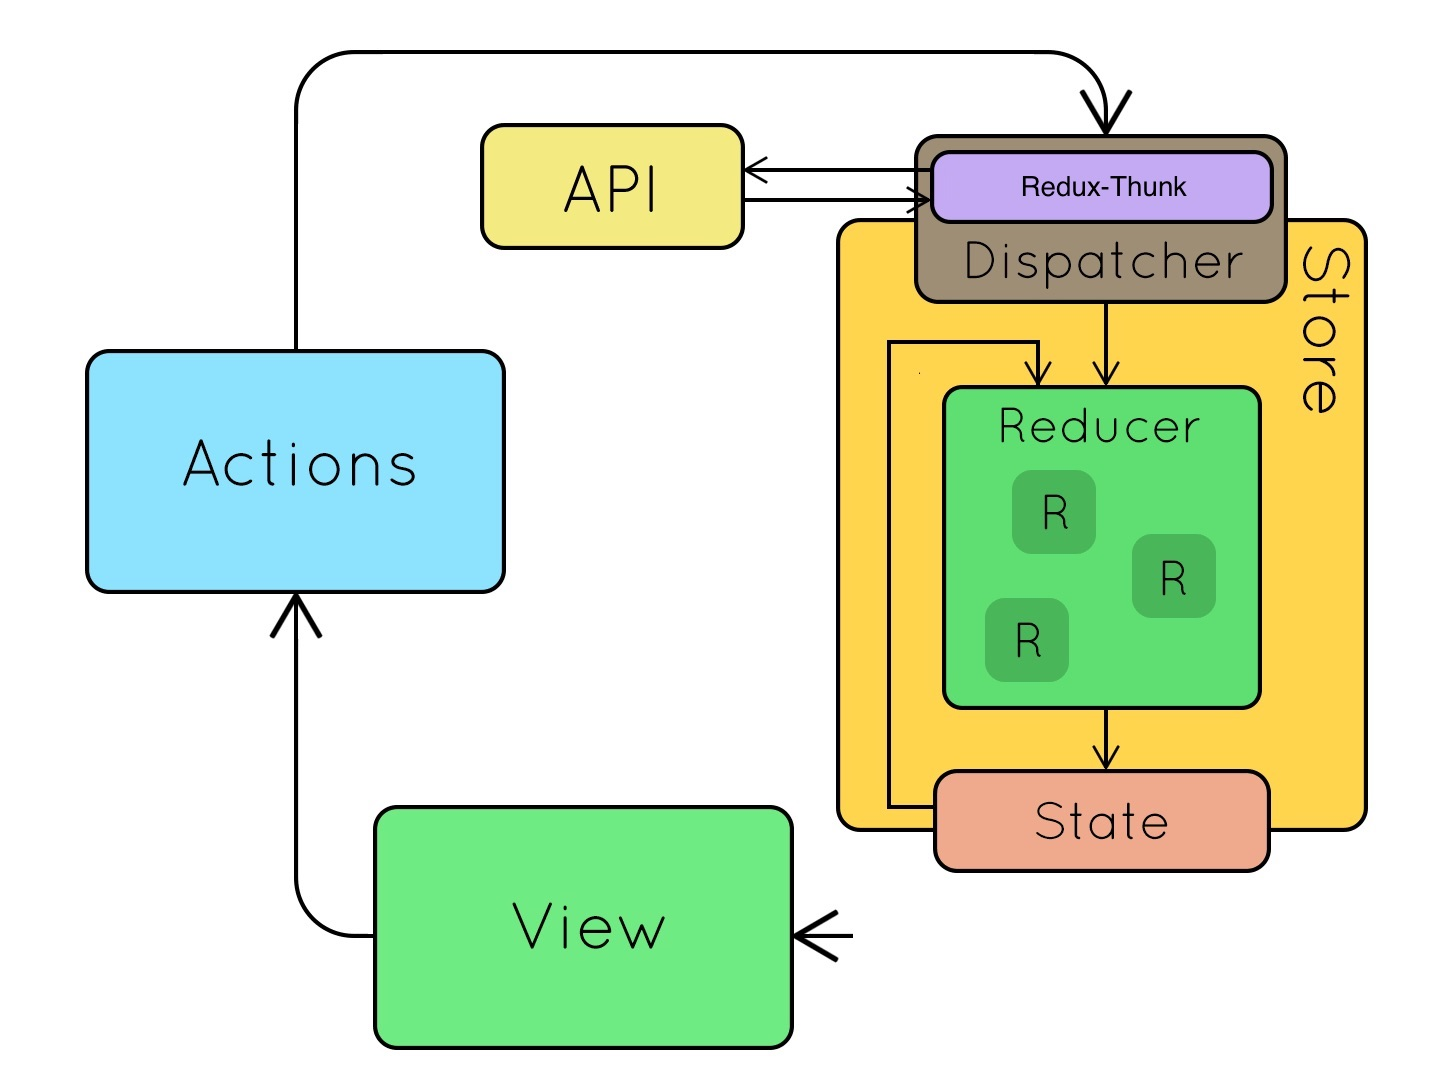
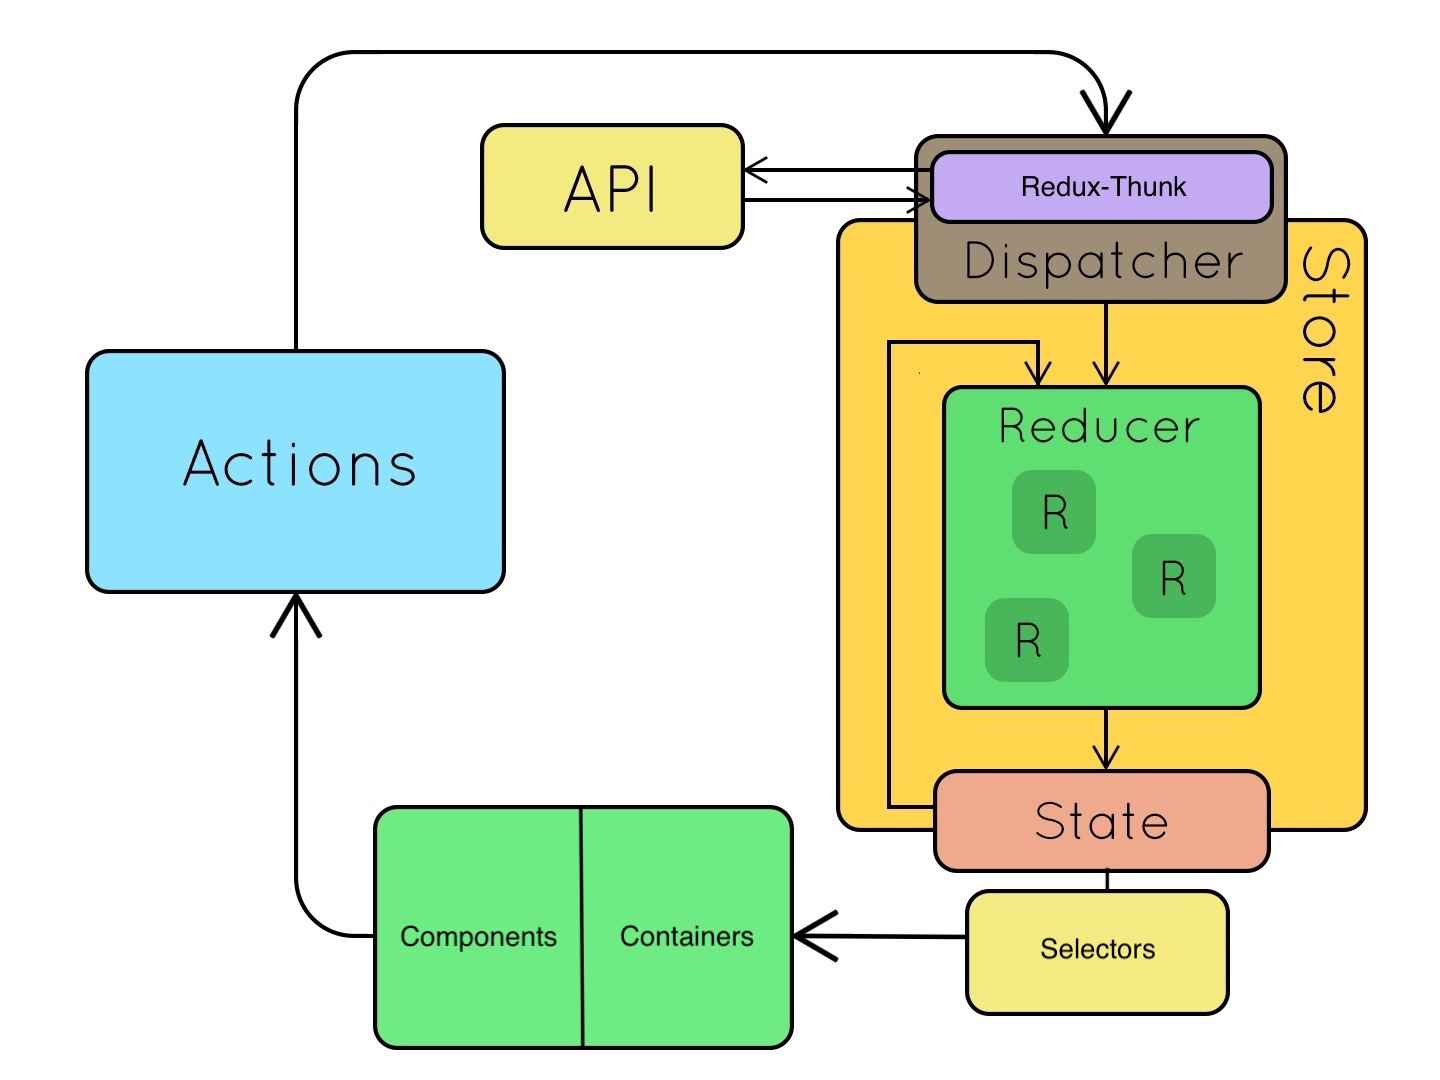
Start of redux

Changed region(s): [[0.5938, 0.7944, 0.875, 0.9472], [0.2812, 0.7639, 0.5312, 0.9472]]

diff --git a/presentation/index.js b/presentation/index.js
@@ -1,9 +1,10 @@
 // Import React
 import React from "react";
-
+import CounterExample from './counterExample.jsx';
 // Import Spectacle Core tags
 import {
   BlockQuote,
+  Code,
   Cite,
   Deck,
   Heading,
@@ -20,7 +21,8 @@ import {
 import createTheme from "spectacle/lib/themes/default";
 const images = {
     reduxFlow: require('../assets/reduxFlow.gif'),
-    ourFlow: require('../assets/ourFlow.jpg')
+    ourFlow: require('../assets/ourFlow.jpg'),
+    semanticVersion: require('../assets/semanticVersion.png')
 }
 
 // Require CSS
@@ -68,8 +70,9 @@ export default class Presentation extends React.Component {
             <Heading size={6} textColor="secondary" caps>Learning Objectives</Heading>
             <List>
               <ListItem>Package management in Javascript (NPM) </ListItem>
-              <ListItem>Functional Programming Fundamentals </ListItem>
+              <ListItem>React and state </ListItem>
               <ListItem>Redux and Asynchoronous Programming within React-Redux ecosystem</ListItem>
+              <ListItem>Functional Programming Fundamentals </ListItem>
               <ListItem>Data flow: From database to page </ListItem>
             </List>
             <Notes>
@@ -94,31 +97,115 @@ export default class Presentation extends React.Component {
               </Heading>
               <Image src={images.ourFlow.replace('/', '')} margin="0px auto 40px" width={1000} height={750} />
           </Slide>
-        <Slide transition={["zoom"]} bgColor="primary">
-          <Heading size={1} fit caps lineHeight={1} textColor="secondary">
-            Do learning objectives and big picture map
-          </Heading>
-          <Text margin="10px 0 0" textColor="tertiary" size={1} fit bold>
-            open the presentation/index.js file to get started
-          </Text>
+          <Slide transition={["fade"]} bgColor="primary" textColor="tertiary">
+            <Heading size={6} textColor="secondary" caps>Basic NPM commands</Heading>
+            <List>
+              <ListItem><Code>npm install</Code> - Installs the dependecies in your <Code>package.json</Code></ListItem>
+              <ListItem><Code>npm install &lt;package-name&gt;</Code> - Installs specified package</ListItem>
+              <ListItem><Code>npm uninstall &lt;package-name&gt;</Code> - Uninstalls specified package </ListItem>
+              <ListItem><Code>npm ls &lt;package-name&gt;</Code> - Checks the version of installed package </ListItem>
+            </List>
+            <Notes>
+              <h4>Talk about --save</h4>
+            </Notes>
+          </Slide>
+          <Slide transition={["zoom"]} bgColor="primary">
+            <Heading size={6} textColor="secondary" caps>What happens when you <Code>npm install</Code></Heading>
+            <List>
+              <ListItem>Creates a directory called <Code>node_modules</Code> in the same directory as your <Code>package.json</Code> file</ListItem>
+              <ListItem>Installs packages according to semantic versioning rules</ListItem>
+            </List>
+          </Slide>
+        <Slide transition={["fade"]} bgColor="primary">
+          <Image src={images.semanticVersion.replace('/', '')} margin="0px auto 40px"/>
+          <Heading size={6} textColor="tertiary" caps>Semantic Versioning Basics</Heading>
+          <Text size={6} textColor="secondary"><Code>^</Code> (Carret) - Updates to latest major version</Text>
+          <Text size={6} textColor="secondary"><Code>~</Code> (Tilde) - Updates to latest minor version version</Text>
         </Slide>
-        <Slide transition={["fade"]} bgColor="tertiary">
-          <Heading size={6} textColor="primary" caps>Typography</Heading>
-          <Heading size={1} textColor="secondary">Heading 1</Heading>
-          <Heading size={2} textColor="secondary">Heading 2</Heading>
-          <Heading size={3} textColor="secondary">Heading 3</Heading>
-          <Heading size={4} textColor="secondary">Heading 4</Heading>
-          <Heading size={5} textColor="secondary">Heading 5</Heading>
-          <Text size={6} textColor="secondary">Standard text</Text>
+        <Slide transition={["fade"]} bgColor="primary">
+          <Heading size={6} textColor="tertiary" caps>Assignment</Heading>
+          <Text size={6} textColor="secondary">Install the following packages: </Text>
+          <Text size={6} textColor="secondary">react-redux, redux, redux-thunk </Text>
         </Slide>
-        <Slide transition={["fade"]} bgColor="primary" textColor="tertiary">
-          <Heading size={6} textColor="secondary" caps>Standard List</Heading>
+        <Slide transition={["fade"]} bgColor="primary">
+          <Heading size={6} textColor="tertiary" caps>React</Heading>
+          <Text size={6} textColor="secondary">Using state and setState, basic component lifecycle, events</Text>
+          <Text size={6} textColor="secondary">Also will cover, ES6 classes, ES6 import/export, arrow functions and `this` keyword, </Text>
+          <Notes>
+            <ol>
+              <li>Create a counter and printer component (with state) - should be easy, they've done the tutorial </li>
+              <li>Do it with redux store. </li>
+              <li>Refactor into its own component (and then copy it multiple times in App) </li>
+              <li>Explain : when to use redux, state vs store.</li>
+            </ol>
+          </Notes>
+        </Slide>
+        <Slide transition={["fade"]} bgColor="primary">
+          <Heading size={6} textColor="tertiary" caps>Create a counter</Heading>
+          <Text size={6} textColor="secondary">Using state and setState, basic component lifecycle, events</Text>
+          <Text size={6} textColor="secondary">Also will cover, ES6 classes, ES6 import/export, arrow functions and `this` keyword, </Text>
+          <Notes>
+            <ol>
+              <li>Create a counter and printer component (with state) - should be easy, they've done the tutorial </li>
+              <li>Factor those components out, make observations about set state </li>
+              <li>Do it with redux store. </li>
+              <li>Refactor into its own component (and then copy it multiple times in App) </li>
+              <li>Explain : when to use redux, state vs store.</li>
+            </ol>
+          </Notes>
+        </Slide>
+        <Slide>
+          <CounterExample />
+        </Slide>
+        <Slide transition={["fade"]} bgColor="primary">
+          <Heading size={6} textColor="tertiary" caps>Make it more modular!</Heading>
+          <Text size={6} textColor="secondary">Seperate printer and slider to their respective components</Text>
+          <Text size={6} textColor="secondary">One acts as a control, and the other acts as a receiver of that control data.</Text>
+          <Notes>
+            <ol>
+              <li>Create a counter and printer component (with state) - should be easy, they've done the tutorial </li>
+              <li>Do it with redux store. </li>
+              <li>Refactor into its own component (and then copy it multiple times in App) </li>
+              <li>Explain : when to use redux, state vs store.</li>
+            </ol>
+          </Notes>
+        </Slide>
+        <Slide transition={["fade"]} bgColor="primary">
+          <Heading size={6} textColor="tertiary" caps>Let's make some observations!</Heading>
+          <Text size={6} textColor="secondary">What happens when setState gets called?</Text>
+          <Text size={6} textColor="secondary">When does render get called?</Text>
+          <Notes>
+            <ol>
+              <li>Slow down timer. Put breakpoints on constructors, setStates and renders</li>
+            </ol>
+          </Notes>
+        </Slide>
+        <Slide transition={["fade"]} bgColor="primary">
+          <Heading size={6} textColor="tertiary" caps>What we know so far:</Heading>
+          <Text size={6} textColor="secondary">Everytime we call setState on a component, render gets called.</Text>
+          <Text size={6} textColor="secondary">Everytime render gets called, it recursively calls render on its children.</Text>
+          <Notes>
+            <ol>
+              <li>Slow down timer. Put breakpoints on setStates and renders</li>
+            </ol>
+          </Notes>
+        </Slide>
+        <Slide transition={["fade"]} bgColor="primary">
+          <Heading size={6} textColor="tertiary" caps>Redux</Heading>
+          <Text size={6} textColor="secondary">High Level Concept</Text>
           <List>
-            <ListItem>Item 1</ListItem>
-            <ListItem>Item 2</ListItem>
-            <ListItem>Item 3</ListItem>
-            <ListItem>Item 4</ListItem>
+            <ListItem>Single source of truth - Multiple sources obfuscates logic</ListItem>
+            <ListItem>State is read-only - The only way to mutate it is with an ACTION </ListItem>
+            <ListItem>Changes are made with pure functions - Other people are looking at state! Don't change it without telling them</ListItem>
           </List>
+          <Notes>
+            <ol>
+              <li>Create a counter and printer component (with state) - should be easy, they've done the tutorial </li>
+              <li>Do it with redux store. </li>
+              <li>Refactor into its own component (and then copy it multiple times in App) </li>
+              <li>Explain : when to use redux, state vs store.</li>
+            </ol>
+          </Notes>
         </Slide>
       </Deck>
     );

diff --git a/presentation/counterExample.jsx b/presentation/counterExample.jsx
@@ -1,0 +1,46 @@
+import React from "react";
+
+class App extends React.Component {
+  constructor(){
+    super();
+    this.state = {
+      counter: 0,
+      sliderValue: 0
+    }
+  }
+  componentWillMount(){
+    setInterval(() => {
+      this.setState({
+        counter: this.state.counter + this.state.sliderValue
+      });
+    }, 1000)
+  }
+  onSliderChange = (e) => {
+    this.setState({
+      sliderValue: Number(e.target.value)
+    })
+  }
+  render() {
+    let token = this.state.counter >= 0 ? "[̲̅$̲̅(̲̅1)̲̅$̲̅]" : "[̲̅$̲̅(̲̅-1)̲̅$̲̅]"
+    return (
+      <div className="App">
+        <div>
+          <p>
+            Counter value: {this.state.counter}
+          </p>
+          <div>
+            {-10} <input type="range" min={-10} max={10} step={1} onChange={this.onSliderChange} value={this.state.sliderValue}/> {10}
+          </div>
+          <div>
+            {this.state.sliderValue}
+          </div>
+          <div>
+            {token.repeat(Math.abs(this.state.counter))}
+          </div>
+        </div>
+      </div>
+    );
+  }
+}
+
+export default App;
